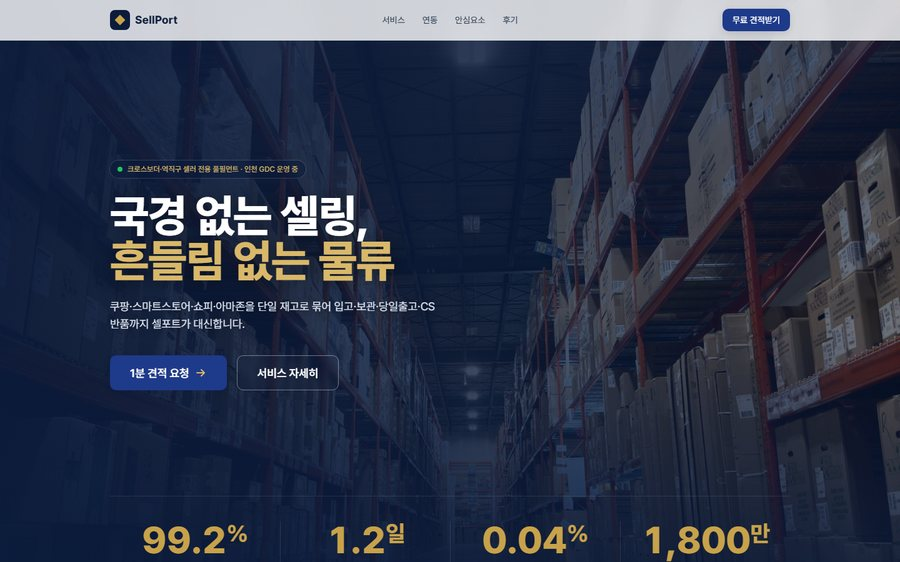
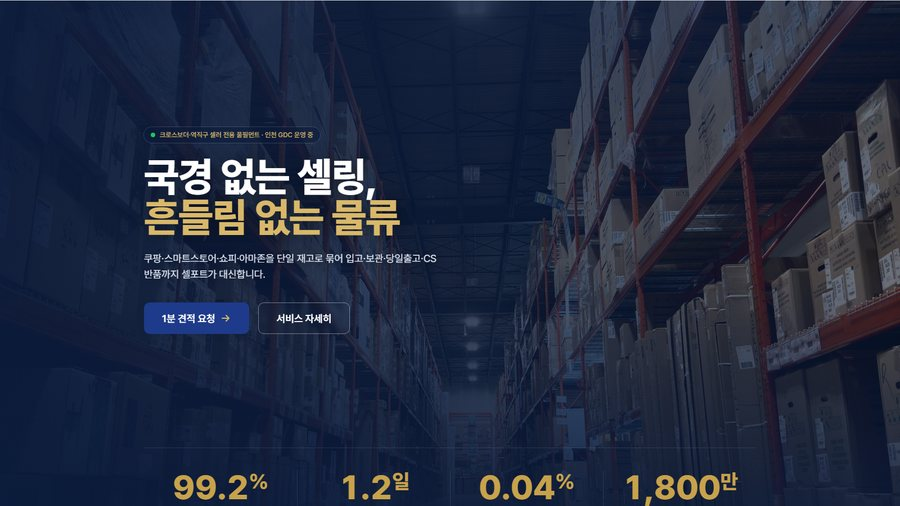
MSE guidebook: restore original design via 4K upscale (no redesign); SellPort thumb full navy hero + copy as 3PL web-production tool demo; rating 4.7

diff --git a/case-popcan.html b/case-popcan.html
@@ -4,7 +4,7 @@
 <meta charset="UTF-8">
 <meta name="viewport" content="width=device-width, initial-scale=1.0">
 <title>팝캔티슈 · Will Choi</title>
-<meta name="description" content="미드저니로 그린 캐릭터를 OEM 설계와 유통을 거쳐 쿠팡 카테고리 1위 상품으로 만든 팝캔티슈 브랜드 케이스 스터디. 리뷰 3,000개, 평점 4.6.">
+<meta name="description" content="미드저니로 그린 캐릭터를 OEM 설계와 유통을 거쳐 쿠팡 카테고리 1위 상품으로 만든 팝캔티슈 브랜드 케이스 스터디. 리뷰 3,000개, 평점 4.7.">
 
 <meta property="og:type" content="article">
 <meta property="og:title" content="팝캔티슈 · Will Choi">
@@ -35,7 +35,7 @@
     <a href="index.html#work" class="back-link">← 전체 프로젝트</a>
     <span class="eyebrow">Brand &amp; Product · Coupang Category No.1</span>
     <h1 class="reveal">팝캔티슈</h1>
-    <p class="lede reveal">미드저니로 그린 캐릭터를 상품화하고, OEM 패키지를 직접 설계하고, 유통까지 직접 뚫어 쿠팡 카테고리 1위에 올린 캐릭터 티슈 브랜드입니다. 리뷰 3,000개, 평점 4.6의 베스트셀링 아이템으로 꾸준히 팔리고 있습니다.</p>
+    <p class="lede reveal">미드저니로 그린 캐릭터를 상품화하고, OEM 패키지를 직접 설계하고, 유통까지 직접 뚫어 쿠팡 카테고리 1위에 올린 캐릭터 티슈 브랜드입니다. 리뷰 3,000개, 평점 4.7의 베스트셀링 아이템으로 꾸준히 팔리고 있습니다.</p>
     <p class="reveal" style="margin-top:20px;"><a href="https://popcantissue.netlify.app/" target="_blank" rel="noopener" class="hero-link">브랜드 홈페이지 ↗</a></p>
   </div>
 
@@ -50,7 +50,7 @@
     </div>
     <div>
       <div class="m-label">만족도</div>
-      <div class="m-value">리뷰 3,000+ · 평점 4.6</div>
+      <div class="m-value">리뷰 3,000+ · 평점 4.7</div>
     </div>
     <div>
       <div class="m-label">기간</div>
@@ -201,7 +201,7 @@
     <div class="stat-row reveal">
       <div class="stat"><b>1위</b><span>쿠팡 카테고리 랭킹</span></div>
       <div class="stat"><b>3,000+</b><span>누적 리뷰</span></div>
-      <div class="stat"><b>4.6</b><span>평점 (5점 만점)</span></div>
+      <div class="stat"><b>4.7</b><span>평점 (5점 만점)</span></div>
       <div class="stat"><b>2년</b><span>시장 안착과 안정화</span></div>
     </div>
     <blockquote class="reveal" style="margin-top:48px;">

diff --git a/index.html b/index.html
@@ -80,7 +80,7 @@
         <div class="pc-body">
           <span class="pc-tag">Brand &amp; Product · Coupang No.1</span>
           <h3>팝캔티슈</h3>
-          <p>미드저니로 그린 캐릭터를 OEM 설계와 유통을 거쳐 쿠팡 카테고리 1위 상품으로. 리뷰 3,000개, 평점 4.6의 베스트셀링 아이템.</p>
+          <p>미드저니로 그린 캐릭터를 OEM 설계와 유통을 거쳐 쿠팡 카테고리 1위 상품으로. 리뷰 3,000개, 평점 4.7의 베스트셀링 아이템.</p>
           <div class="pc-meta">
             <span>역할 · 캐릭터, 패키지, OEM, 유통</span>
             <span>성과 · 카테고리 1위, 리뷰 3,000+</span>
@@ -118,7 +118,7 @@
       </a>
       <a href="sellport/index.html" target="_blank" rel="noopener" class="archive-card">
         <img src="assets/projects/sellport.jpg" alt="셀포트 3PL 풀필먼트 영업 데모 사이트">
-        <div class="a-body"><div class="a-year">Sales Demo · Live</div><h4>셀포트 SellPort</h4><p>크로스보더 셀러를 위한 3PL 풀필먼트 영업 데모. 네이밍부터 기획, 카피, 디자인, 배포까지 직접.</p></div>
+        <div class="a-body"><div class="a-year">Sales Demo · Live</div><h4>셀포트 SellPort</h4><p>3PL 전문 웹페이지 제작 도구. 셀포트는 그 영업 데모로, 네이밍부터 기획, 카피, 디자인, 배포까지 직접 만들었습니다.</p></div>
       </a>
     </div>
 